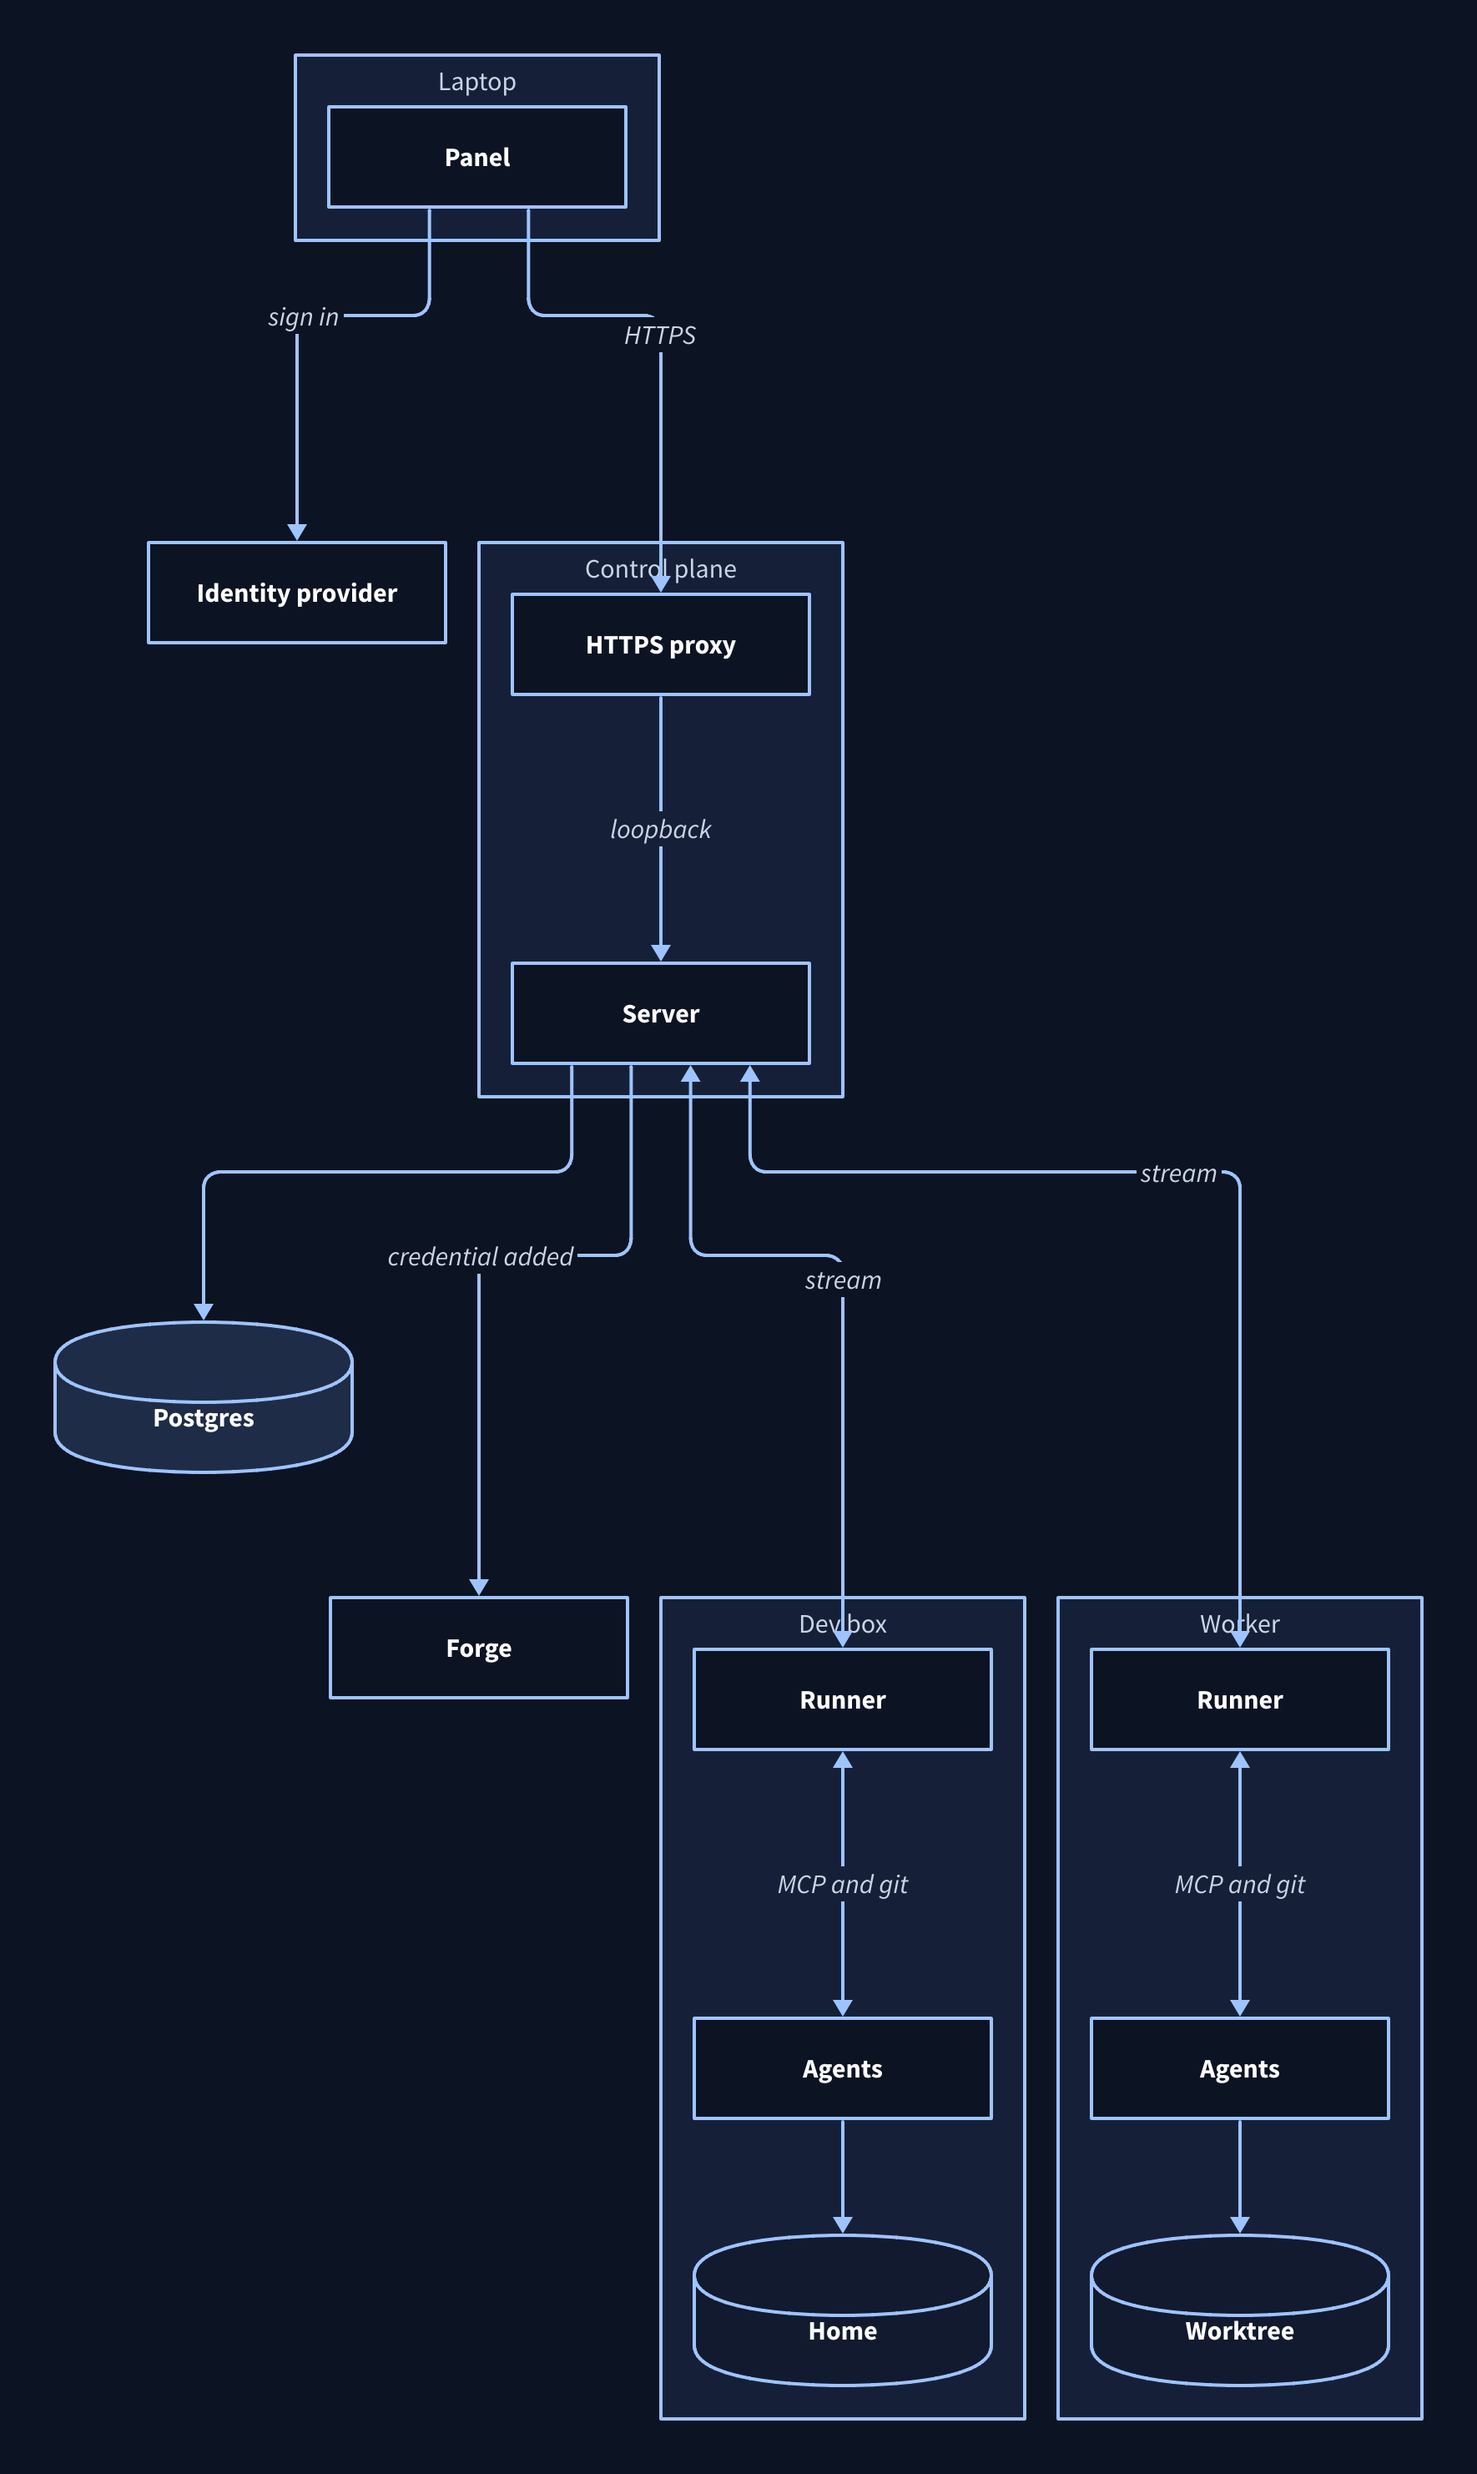
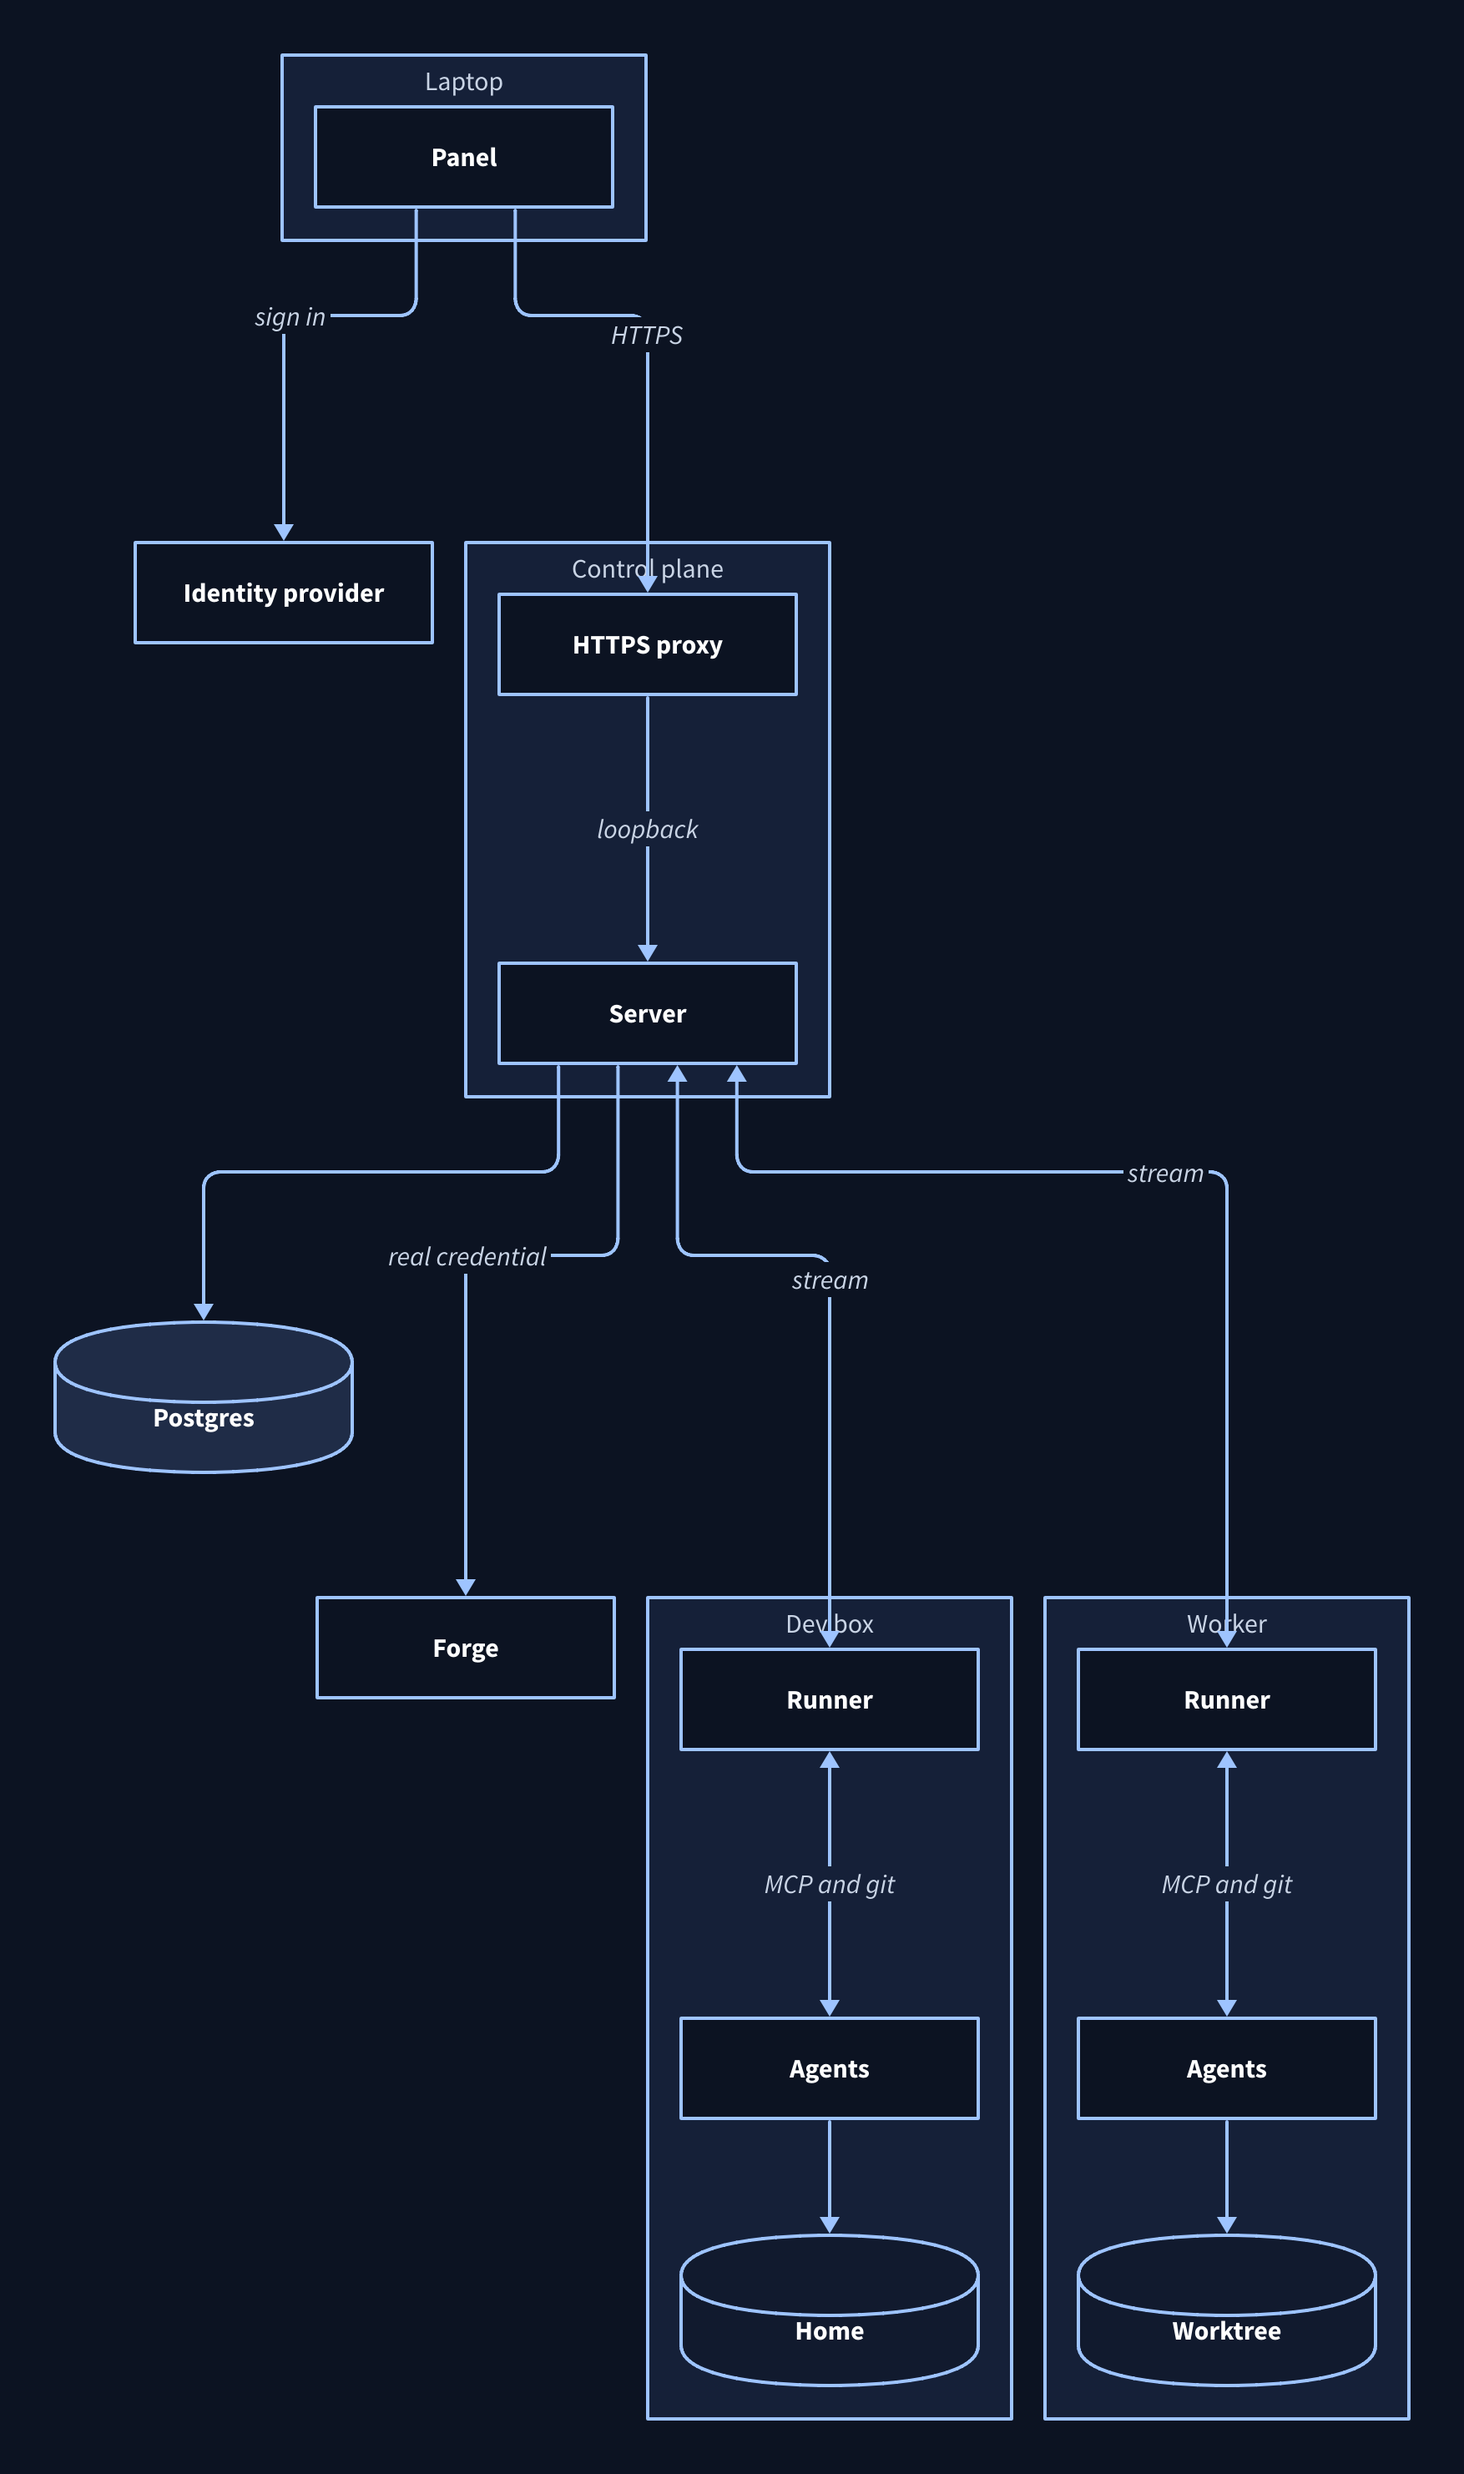
docs: tidy engine guide wording, links and diagram label

diff --git a/docs/style-guide.md b/docs/style-guide.md
@@ -134,7 +134,7 @@ box: A dev box or a worker, where a remote engine's agents run. Not "machine", "
 
 dev box: A box that belongs to one person. Their workflows' agents run there and act as them.
 
-worker: A box that runs one bot task, or one bot workflow's orchestrator, and is thrown away when its task is archived.
+worker: A box that runs one bot task, or one bot workflow's orchestrator. Komrad throws it away when that task or workflow is archived.
 
 runner: The komrad program on each box. It keeps one stream open to the control plane, and everything between the two crosses it.
 
